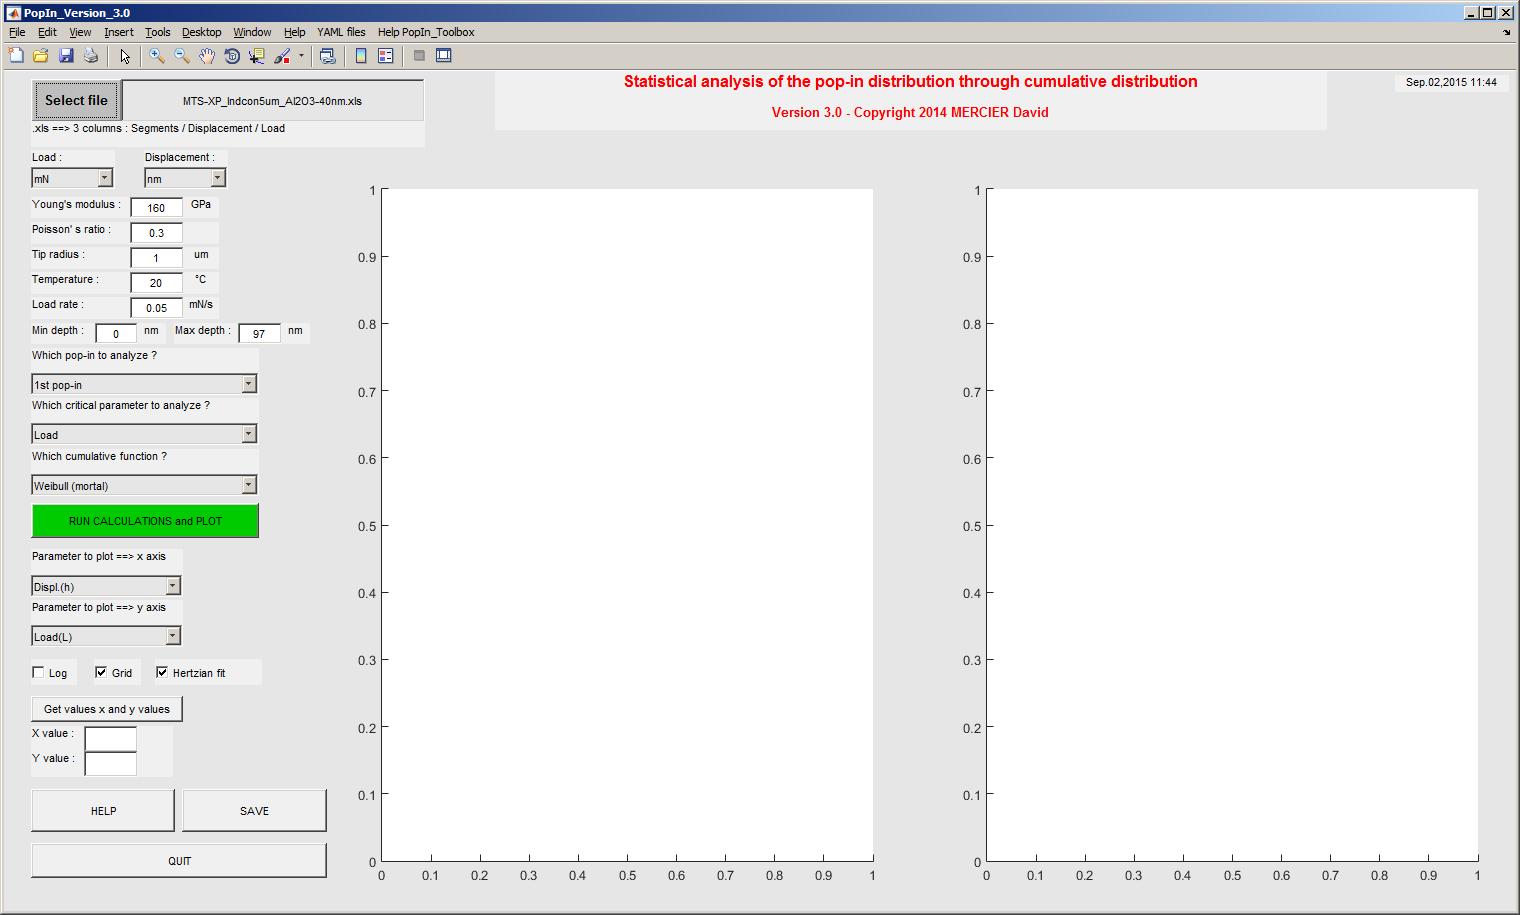
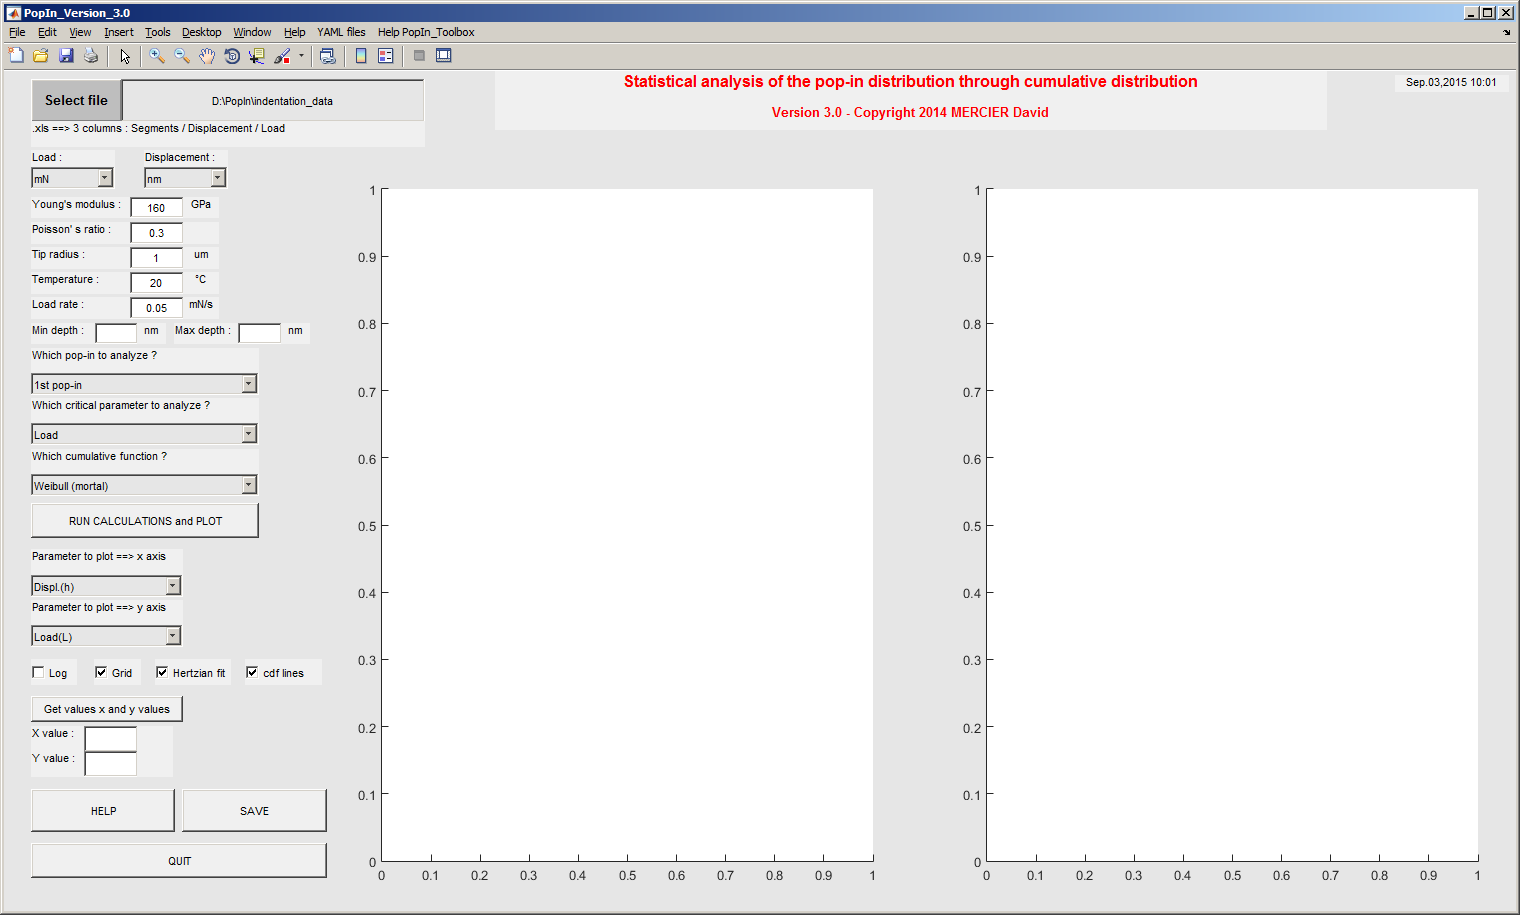
updated doc

Changed region(s): [[0.0, 0.5508, 0.1855, 0.612], [0.1237, 0.0918, 0.2474, 0.1224]]

diff --git a/demo.m b/demo.m
@@ -201,7 +201,11 @@ gui.handles.cb_grid_plot = set_checkbox('Grid', [0.06 0.27 0.03 0.03], ...
 
 % Plot Hertzian fit
 gui.handles.cb_Hertzian_plot = set_checkbox('Hertzian fit', ...
-    [0.1 0.27 0.07 0.03], 1, 'get_and_plot;', gcf);
+    [0.1 0.27 0.05 0.03], 1, 'get_and_plot;', gcf);
+
+% Plot cdf lines
+gui.handles.cb_cdf_lines = set_checkbox('cdf lines', ...
+    [0.16 0.27 0.05 0.03], 1, 'get_and_plot;', gcf);
 
 %% Get values from plot
 gui.handles.cb_get_values = set_pushbutton(...

diff --git a/matlab_code/plot/plot_cdf.m b/matlab_code/plot/plot_cdf.m
@@ -80,6 +80,18 @@ xlabel(str_xlabel);
 ylabel('Cumulative distribution');
 title(str_title);
 
+
+%% Plot of lines
+if get(gui.handles.cb_cdf_lines, 'value') == 1
+    xBoundary_1 = zeros(1,11)+1;
+    yBoundary_1 = 0:0.1:1;
+    plot(xBoundary_1, yBoundary_1, '--k'); hold on;
+    
+    xBoundary_2 = 0:100:1000;
+    yBoundary_2 = zeros(1,11)+0.5;
+    plot(xBoundary_2, yBoundary_2, '--k'); hold on;
+end
+
 guidata(gcf, gui);
 
 end

diff --git a/doc/getting_started.rst b/doc/getting_started.rst
@@ -40,8 +40,9 @@ First of all a GUI is a Graphical User Interface.
 
 * Import your (nano)indentation results (.xls file obtained from MTS software with at least more than 20 indentation tests for statistics), by pressing the button 'Select file'.
 * Select the end segment (if segments exist), in order to set the maximum indentation depth.
-* It is possible to plot the stiffness (raw data) without setting the GUI for Young's modulus calculation.
-* A picture of the main window as .png file is created and Weibull data are stored in a .txt file when you press the button 'SAVE'.
+* Once the dataset is loaded, run calculations by pressing the green button 'RUN CALCULATIONS and PLOT'.
+* Load-displacement curves and selected cumulative distribution function (cdf) are plotted respectively on the left graphic and the right graphic.
+* A picture of the main window as .png file is created and cdf fit results are stored in a .txt file when you press the button 'SAVE'.
 * Results are accessible by typing in the Matlab command window (here for 50 indentation tests) : 
 
 .. code-block:: matlab
@@ -49,14 +50,15 @@ First of all a GUI is a Graphical User Interface.
    gui = guidata(gcf)
    
    gui =
-        config: [1x1 struct]     % config. of the GUI
-        handles: [1x1 struct]    % handles of the GUI = buttons, boxes...
-        flag: [1x1 struct]       % flags for errors, calculations
-        data: [1x50 struct]      % data cropped
-        data_xls: [1x1 struct]   % details about .xls file
-        settings: [1x1 struct]   % settings for calculations
-        results: [50x1 struct]   % results obtained after calculations
-        Weibull: [1x1 struct]    % Weibull fit results
+        config: [1x1 struct]                % config. of the GUI
+        data_xls: [1x1 struct]              % details about .xls file
+        handles: [1x1 struct]               % handles of the GUI = buttons, boxes...
+        settings: [1x1 struct]              % settings of the GUI
+        flag: [1x1 struct]                  % flags for errors, calculations
+        data: [1x50 struct]                 % data cropped
+        results: [50x1 struct]              % results obtained after calculations
+        Hertz: [1x1 struct]                 % details about hertzian fit
+        cumulativeFunction: [1x1 struct]    % cdf fit results
 
 .. figure:: ./_pictures/GUI_select_segment.png
    :scale: 40 %
@@ -68,7 +70,19 @@ First of all a GUI is a Graphical User Interface.
    :scale: 30 %
    :align: center
    
-   *Plot of the load-displacement curves after loading of data.*
+   *Plot of the load-displacement curves and the mortal Weibull cdf after loading of data.*
+   
+.. figure:: ./_pictures/GUI_Main_Window_survival.png
+   :scale: 30 %
+   :align: center
+   
+   *Plot of the load-displacement curves and the survival Weibull cdf.*
+   
+.. figure:: ./_pictures/GUI_Main_Window_chechenin.png
+   :scale: 30 %
+   :align: center
+   
+   *Plot of the load-displacement curves and the mortal modified Weibull cdf (Chechenin's model).*
    
 The YAML configuration files
 #################################
